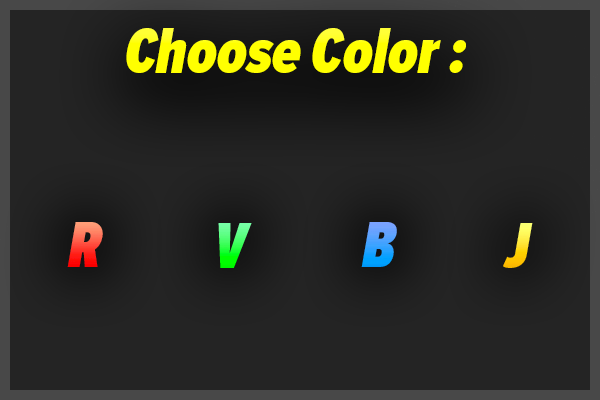
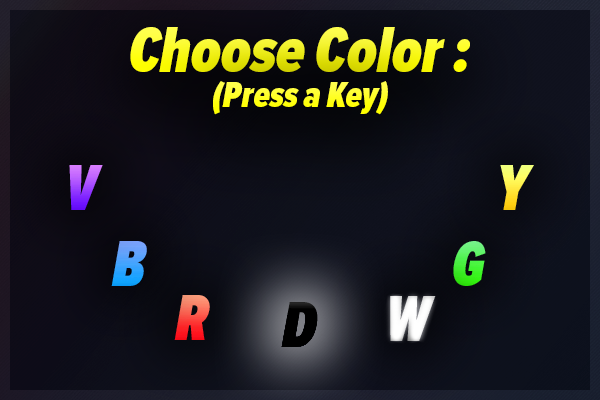
Seconde Version changements couleurs

diff --git a/src/main/java/ch/epfl/cs107/play/game/actor/ActorGame.java b/src/main/java/ch/epfl/cs107/play/game/actor/ActorGame.java
@@ -184,12 +184,12 @@ public abstract class ActorGame implements Game {
 			pauseMsg.setText("PAUSE");
 			pauseMsg.draw(window);
 			// Nous utilisons la touche T pour nous teleporter pour debug notre niveau
-			if (getKeyboard().get(KeyEvent.VK_T).isReleased() && !isDrawing) {
+			if (getKeyboard().get(KeyEvent.VK_T).isReleased() && !isDrawing && !choosingColor) {
 				// Nous changeons la position du bike et des roues
 				((Bike) payLoad).setPosition(getMouse().getPosition());
 			}
 			// E = Ouvrir le menu pour changer de couleur le cyliste
-			if (getKeyboard().get(KeyEvent.VK_E).isReleased() && !isDrawing) {
+			if (getKeyboard().get(KeyEvent.VK_E).isReleased() && !isDrawing && !choosingColor) {
 				choosingColor = !choosingColor;
 			}
 			// Si nous sommes en train de changer de couleur
@@ -198,20 +198,33 @@ public abstract class ActorGame implements Game {
 						1000f); 
 				chooseColor.setParent(window);
 				chooseColor.draw(getCanvas());
+				// Differentes couleurs de cyliste disponible
 				if (getKeyboard().get(KeyEvent.VK_R).isReleased()) {
 					((Bike) payLoad).createPlayer(Color.RED);
 					choosingColor = !choosingColor;
 				}
-				else if (getKeyboard().get(KeyEvent.VK_V).isReleased()) {
-					((Bike) payLoad).createPlayer(Color.GREEN);
+				else if (getKeyboard().get(KeyEvent.VK_G).isReleased()) {
+					((Bike) payLoad).createPlayer(new Color(39, 174, 96));
 					choosingColor = !choosingColor;
 				}
 				else if (getKeyboard().get(KeyEvent.VK_B).isReleased()) {
 					((Bike) payLoad).createPlayer(Color.BLUE);
 					choosingColor = !choosingColor;
 				}
-				else if (getKeyboard().get(KeyEvent.VK_J).isReleased()) {
+				else if (getKeyboard().get(KeyEvent.VK_Y).isReleased()) {
 					((Bike) payLoad).createPlayer(Color.YELLOW);
+					choosingColor = !choosingColor;
+				}
+				else if (getKeyboard().get(KeyEvent.VK_V).isReleased()) {
+					((Bike) payLoad).createPlayer(new Color(142, 68, 173));
+					choosingColor = !choosingColor;
+				}
+				else if (getKeyboard().get(KeyEvent.VK_D).isReleased()) {
+					((Bike) payLoad).createPlayer(Color.BLACK);
+					choosingColor = !choosingColor;
+				}
+				else if (getKeyboard().get(KeyEvent.VK_W).isReleased()) {
+					((Bike) payLoad).createPlayer(Color.WHITE);
 					choosingColor = !choosingColor;
 				}
 			}
@@ -230,11 +243,11 @@ public abstract class ActorGame implements Game {
 				shiftedViewCenter = shiftedViewCenter.add((new Vector(0.4f, -0.4f)));
 			}
 			// Si nous appuyons sur C, cela cree une Crate a l'endroit du curseur de la souris
-			if (getKeyboard().get(KeyEvent.VK_C).isReleased() && !isDrawing) {
+			if (getKeyboard().get(KeyEvent.VK_C).isReleased() && !isDrawing && !choosingColor) {
 				Crate crate = new Crate(this, false, getMouse().getPosition(), 1, 1, "stone.broken.1.png");
 			}
-			// Si nous appuyons sur G nous entrons en "edit-mod", pour dessiner un polyline
-			if (getKeyboard().get(KeyEvent.VK_G).isReleased()) {
+			// Si nous appuyons sur Z nous entrons en "edit-mod", pour dessiner un polyline
+			if (getKeyboard().get(KeyEvent.VK_Z).isReleased() && !choosingColor) {
 				points.clear();
 				isDrawing = true;
 				editMsg = new TextGraphics("", 0.05f, Color.BLUE, Color.BLACK, 0.02f, true, false,
@@ -243,8 +256,8 @@ public abstract class ActorGame implements Game {
 				editMsg.setRelativeTransform(Transform.I.translated(0.0f, -1.0f));
 				editMsg.setText("EDIT-MOD");
 			}
-			// Lorsque nous appuyons sur H, nous quittons l'edit mod et nous dessinons le polyline
-			if (getKeyboard().get(KeyEvent.VK_H).isReleased()) {
+			// Lorsque nous appuyons sur U, nous quittons l'edit mod et nous dessinons le polyline
+			if (getKeyboard().get(KeyEvent.VK_U).isReleased() && !choosingColor) {
 				isDrawing = false;
 				// Nous testons si nous avons pas 0 point ce qui causerait une erreur de compilation
 				if (points.size() != 0) {

diff --git a/src/main/java/ch/epfl/cs107/play/game/actor/bike/BikeGame.java b/src/main/java/ch/epfl/cs107/play/game/actor/bike/BikeGame.java
@@ -140,8 +140,8 @@ public class BikeGame extends ActorGame {
 	private Bike bike;
 	// Nous mettons le rayon des roues en final car celui-ci ne change pas
 	private final float RAYON_ROUES = 0.5f;
-	//private Vector posBike = new Vector(2.0f, 5.0f);
-	private Vector posBike = new Vector(215.0f, -20.0f);
+	private Vector posBike = new Vector(2.0f, 5.0f);
+	//private Vector posBike = new Vector(215.0f, -20.0f);
 	
 	private Finish flag;
 	private float rayonFlag = 0.5f;
@@ -164,7 +164,7 @@ public class BikeGame extends ActorGame {
 	private Tremplin tremplin1;
 	private Vector posTremplin1 = new Vector(163.0f, -21f);
 	
-	private Piques2 piques1;
+	private Piques piques1;
 	private Vector posPiques1 = new Vector(220.0f, -20.0f);
 	
 	private TextGraphics msgDeath;
@@ -210,7 +210,7 @@ public class BikeGame extends ActorGame {
 		
 		tremplin1 = new Tremplin(this, true, posTremplin1, 2.0f, 1.0f, "jumper.normal.png");
 		
-		piques1 = new Piques2(this, true, posPiques1, 3.0f, 1.0f, "spikes.png");
+		//piques1 = new Piques(this, true, posPiques1, 3.0f, 1.0f, "spikes.png", bike);
 		
 		// Nous fixons la camera sur le bike
 		setViewCandidate(bike);

diff --git a/src/main/java/ch/epfl/cs107/play/game/actor/general/Piques.java b/src/main/java/ch/epfl/cs107/play/game/actor/general/Piques.java
@@ -5,6 +5,7 @@
 package ch.epfl.cs107.play.game.actor.general;
 
 import ch.epfl.cs107.play.game.actor.ActorGame;
+import ch.epfl.cs107.play.game.actor.bike.Bike;
 import ch.epfl.cs107.play.game.actor.crate.Crate;
 import ch.epfl.cs107.play.math.Contact;
 import ch.epfl.cs107.play.math.ContactListener;
@@ -14,16 +15,18 @@ import ch.epfl.cs107.play.math.Vector;
 public class Piques extends Crate{
 	private ContactListener listener;
 
-	public Piques(ActorGame game, boolean fixed, Vector position, float width, float height, String image) {
+	public Piques(ActorGame game, boolean fixed, Vector position, float width, float height, String image, Bike bike) {
 		super(game, fixed, position, width, height, image);
 		
 		listener = new ContactListener() {
 			@Override
 			public void beginContact(Contact contact) {
 				Part other = contact.getOther();
+				if (other != null) {
+					System.out.println("je rentre");
+					contact.getOther().destroy();
+				}
 				
-				other.getEntity().destroy();
-				other.destroy();
 			}
 
 			@Override
